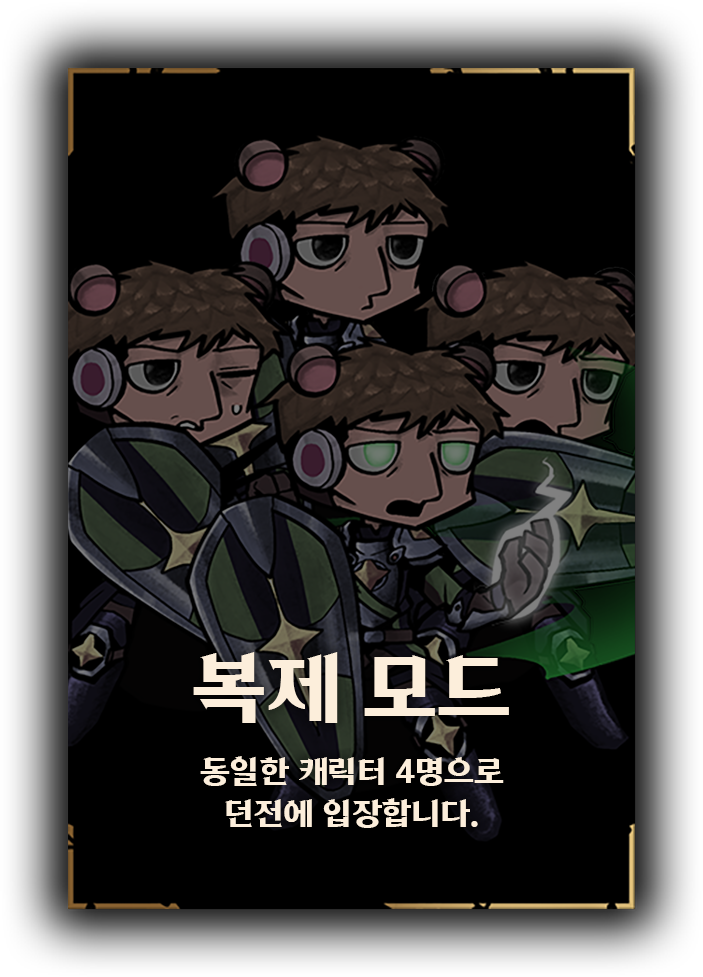
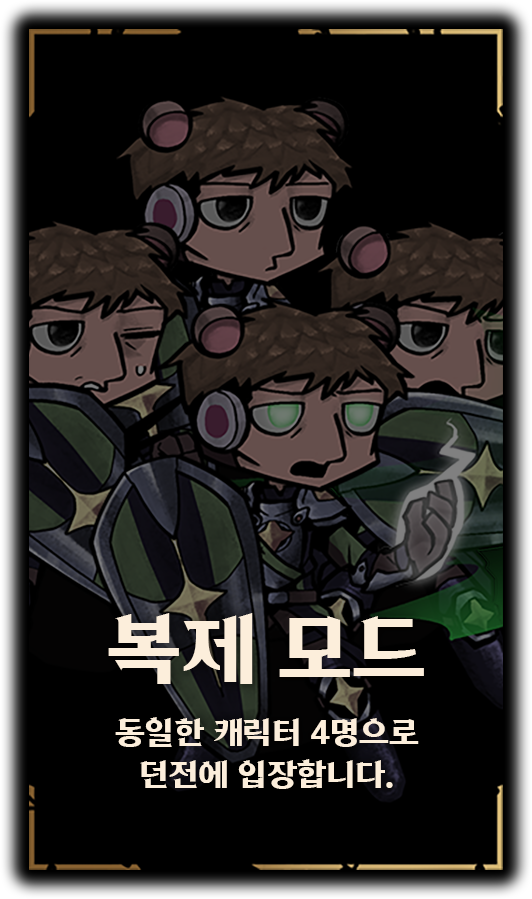
1.2.0 작업 거의 완료?

diff --git a/core/src/com/fastcat/labyrintale/screens/custom/ModeButton.java b/core/src/com/fastcat/labyrintale/screens/custom/ModeButton.java
@@ -7,6 +7,7 @@ import com.fastcat.labyrintale.Labyrintale;
 import com.fastcat.labyrintale.abstracts.AbstractLabyrinth;
 import com.fastcat.labyrintale.abstracts.AbstractUI;
 import com.fastcat.labyrintale.handlers.FileHandler;
+import com.fastcat.labyrintale.handlers.SoundHandler;
 import com.fastcat.labyrintale.handlers.UnlockHandler;
 
 import static com.fastcat.labyrintale.Labyrintale.charSelectScreen;
@@ -15,13 +16,19 @@ public class ModeButton extends AbstractUI {
 
     private final float aa = Color.LIGHT_GRAY.r;
     public AbstractLabyrinth.Mode mode;
-    private final Sprite locked = FileHandler.getUi().get("DIFF_LOCKED");
+    private final Sprite locked = FileHandler.getUi().get("MODE_LOCK");
     private float a = aa;
 
     public ModeButton(AbstractLabyrinth.Mode diff) {
         super(FileHandler.getUi().get("MODE_" + diff.toString()));
         this.mode = diff;
         isPixmap = true;
+        clickable = mode == AbstractLabyrinth.Mode.NORMAL || UnlockHandler.unlocks.get(UnlockHandler.Unlocks.DIFF).get("HARD");
+    }
+
+    @Override
+    protected void updateButton() {
+        clickable = mode == AbstractLabyrinth.Mode.NORMAL || UnlockHandler.unlocks.get(UnlockHandler.Unlocks.DIFF).get("HARD");
     }
 
     @Override
@@ -46,12 +53,17 @@ public class ModeButton extends AbstractUI {
 
     @Override
     protected void onClick() {
-        for (int i = 0; i < charSelectScreen.chars.length; i++) {
-            charSelectScreen.chars[i].removeChar();
+        if(mode == AbstractLabyrinth.Mode.NORMAL) {
+            SoundHandler.playSfx("CHANGE");
+            Labyrintale.fadeOutAndChangeScreen(Labyrintale.diffScreen, Labyrintale.FadeType.VERTICAL, 0.5f);
+        } else {
+            for (int i = 0; i < charSelectScreen.chars.length; i++) {
+                charSelectScreen.chars[i].removeChar();
+            }
+            charSelectScreen.diff = AbstractLabyrinth.Difficulty.NORMAL;
+            charSelectScreen.setMode(mode);
+            charSelectScreen.seedText.text = "";
+            Labyrintale.fadeOutAndChangeScreen(charSelectScreen, 0.75f);
         }
-        charSelectScreen.diff = AbstractLabyrinth.Difficulty.NORMAL;
-        charSelectScreen.setMode(mode);
-        charSelectScreen.seedText.text = "";
-        Labyrintale.fadeOutAndChangeScreen(charSelectScreen, 0.75f);
     }
 }

diff --git a/core/src/com/fastcat/labyrintale/screens/custom/CustomModeScreen.java b/core/src/com/fastcat/labyrintale/screens/custom/CustomModeScreen.java
@@ -14,15 +14,12 @@ import static com.fastcat.labyrintale.handlers.InputHandler.scale;
 public class CustomModeScreen extends AbstractScreen {
 
     public BackButton backButton;
-    public ToDiffButton left;
-    private final ModeButton[] buttons = new ModeButton[3];
+    private final ModeButton[] buttons = new ModeButton[4];
 
     public CustomModeScreen() {
-        left = new ToDiffButton();
-        left.setPosition(Gdx.graphics.getWidth() * 0.02f, Gdx.graphics.getHeight() * 0.5f - left.sHeight / 2);
-        for (int i = 0; i < 3; i++) {
-            ModeButton b = new ModeButton(AbstractLabyrinth.Mode.values()[i + 1]);
-            b.setPosition((575 + 705 * i) * scale - b.sWidth / 2, 232 * scale);
+        for (int i = 0; i < 4; i++) {
+            ModeButton b = new ModeButton(AbstractLabyrinth.Mode.values()[i]);
+            b.setPosition((176 + 552 * i) * scale, Gdx.graphics.getHeight() * 0.5f - b.sHeight / 2);
             buttons[i] = b;
         }
         backButton = new BackButton();
@@ -31,7 +28,6 @@ public class CustomModeScreen extends AbstractScreen {
 
     @Override
     public void update() {
-        left.update();
         for (ModeButton b : buttons) {
             b.update();
         }
@@ -47,7 +43,6 @@ public class CustomModeScreen extends AbstractScreen {
             b.render(sb);
         }
         backButton.render(sb);
-        left.render(sb);
     }
 
     @Override
@@ -58,6 +53,5 @@ public class CustomModeScreen extends AbstractScreen {
             b.over = false;
             b.show();
         }
-        left.over = false;
     }
 }

diff --git a/core/src/com/fastcat/labyrintale/screens/difficulty/DifficultyScreen.java b/core/src/com/fastcat/labyrintale/screens/difficulty/DifficultyScreen.java
@@ -9,17 +9,15 @@ import com.fastcat.labyrintale.abstracts.AbstractLabyrinth;
 import com.fastcat.labyrintale.abstracts.AbstractScreen;
 import com.fastcat.labyrintale.handlers.FileHandler;
 import com.fastcat.labyrintale.handlers.InputHandler;
+import com.fastcat.labyrintale.handlers.UnlockHandler;
 import com.fastcat.labyrintale.screens.runview.IndexButton;
 
 public class DifficultyScreen extends AbstractScreen {
 
     public BackButton backButton;
-    public ToModeButton right;
     private final DifficultyButton[] buttons = new DifficultyButton[3];
 
     public DifficultyScreen() {
-        right = new ToModeButton();
-        right.setPosition(Gdx.graphics.getWidth() * 0.98f - right.sWidth, Gdx.graphics.getHeight() * 0.5f - right.sHeight / 2);
         for (int i = 0; i < 3; i++) {
             DifficultyButton b = new DifficultyButton(AbstractLabyrinth.Difficulty.values()[i]);
             b.setPosition((680 + 600 * i) * scale - b.sWidth / 2, 424 * scale);
@@ -31,7 +29,6 @@ public class DifficultyScreen extends AbstractScreen {
 
     @Override
     public void update() {
-        right.update();
         for (DifficultyButton b : buttons) {
             b.update();
         }
@@ -47,7 +44,6 @@ public class DifficultyScreen extends AbstractScreen {
             b.render(sb);
         }
         backButton.render(sb);
-        right.render(sb);
     }
 
     @Override
@@ -58,6 +54,5 @@ public class DifficultyScreen extends AbstractScreen {
             b.over = false;
             b.show();
         }
-        right.over = false;
     }
 }

diff --git a/core/src/com/fastcat/labyrintale/abstracts/AbstractLabyrinth.java b/core/src/com/fastcat/labyrintale/abstracts/AbstractLabyrinth.java
@@ -6,6 +6,7 @@ import com.fastcat.labyrintale.Labyrintale;
 import com.fastcat.labyrintale.abstracts.AbstractRoom.RoomType;
 import com.fastcat.labyrintale.handlers.*;
 import com.fastcat.labyrintale.interfaces.AtCartoonEnd;
+import com.fastcat.labyrintale.items.special.Water;
 import com.fastcat.labyrintale.players.*;
 import com.fastcat.labyrintale.screens.cartoon.CartoonScreen;
 import com.fastcat.labyrintale.screens.dead.DeadScreen;
@@ -103,6 +104,10 @@ public class AbstractLabyrinth {
                 AbstractPlayer t = Labyrintale.charSelectScreen.chars[0].player;
                 AbstractPlayer p = getPlayerInstance(t.playerClass);
                 p.setCustomSkin(t.key);
+                p.gainItem(new Water(p), 0);
+                HashMap<String, Boolean> ti = UnlockHandler.unlocks.get(UnlockHandler.Unlocks.ITEM);
+                if(ti.get("Water") == null) ti.put("Water", true);
+                else if (!ti.get("Water")) ti.replace("Water", true);
                 SettingHandler.setting.skin.replace(t.playerClass, t.key);
                 p.defineIndex(0);
                 restriction.onCreatePlayer(p);

diff --git a/core/src/com/fastcat/labyrintale/items/special/Water.java b/core/src/com/fastcat/labyrintale/items/special/Water.java
@@ -1,0 +1,30 @@
+package com.fastcat.labyrintale.items.special;
+
+import com.fastcat.labyrintale.abstracts.AbstractItem;
+import com.fastcat.labyrintale.abstracts.AbstractPlayer;
+
+public class Water extends AbstractItem {
+
+    private static final String ID = "Water";
+    private static final ItemRarity RARITY = ItemRarity.SPECIAL;
+
+    public Water(AbstractPlayer owner) {
+        super(ID, owner, RARITY);
+    }
+
+    @Override
+    public void onGain() {
+        owner.modifyMaxHealth(5);
+        owner.stat.attack += 1;
+        owner.stat.spell += 1;
+        owner.stat.speed += 1;
+    }
+
+    @Override
+    public void onRemove() {
+        owner.modifyMaxHealth(-5);
+        owner.stat.attack -= 1;
+        owner.stat.spell -= 1;
+        owner.stat.speed -= 1;
+    }
+}

diff --git a/core/src/com/fastcat/labyrintale/handlers/FileHandler.java b/core/src/com/fastcat/labyrintale/handlers/FileHandler.java
@@ -459,6 +459,8 @@ public class FileHandler implements Disposable {
         resourceNames.put("MODE_SOLO", "img/ui/mode_solo.png");
         resourceNames.put("MODE_FREE", "img/ui/mode_free.png");
         resourceNames.put("MODE_DUP", "img/ui/mode_dup.png");
+        resourceNames.put("MODE_NORMAL", "img/ui/mode_normal.png");
+        resourceNames.put("MODE_LOCK", "img/ui/mode_lock.png");
         resourceNames.put("LIB_RUNS", "img/ui/lib_runs.png");
         resourceNames.put("LIB_ACHVS", "img/ui/lib_achvs.png");
         resourceNames.put("LIB_DICT", "img/ui/lib_dict.png");

diff --git a/core/src/com/fastcat/labyrintale/screens/mainmenu/GameStartButton.java b/core/src/com/fastcat/labyrintale/screens/mainmenu/GameStartButton.java
@@ -54,7 +54,7 @@ public class GameStartButton extends AbstractUI {
     @Override
     protected void onClick() {
         SoundHandler.playSfx("CHANGE");
-        fadeOutAndChangeScreen(diffScreen, FadeType.VERTICAL, 0.5f);
+        fadeOutAndChangeScreen(modeScreen, FadeType.VERTICAL, 0.5f);
     }
 
     @Override

diff --git a/core/src/com/fastcat/labyrintale/screens/difficulty/BackButton.java b/core/src/com/fastcat/labyrintale/screens/difficulty/BackButton.java
@@ -53,6 +53,6 @@ public class BackButton extends AbstractUI {
     @Override
     public void onClick() {
         SoundHandler.playSfx("CHANGE");
-        fadeOutAndChangeScreen(mainMenuScreen, FadeType.VERTICAL, 0.5f);
+        fadeOutAndChangeScreen(modeScreen, FadeType.VERTICAL, 0.5f);
     }
 }

diff --git a/core/src/com/fastcat/labyrintale/handlers/GroupHandler.java b/core/src/com/fastcat/labyrintale/handlers/GroupHandler.java
@@ -588,6 +588,7 @@ public final class GroupHandler {
             t.add(new ShortBase(null));
             t.add(new Sanpellegrino(null));
             t.add(new Amadeus(null));
+            t.add(new Water(null));
         }
 
         @SuppressWarnings("NewApi")
